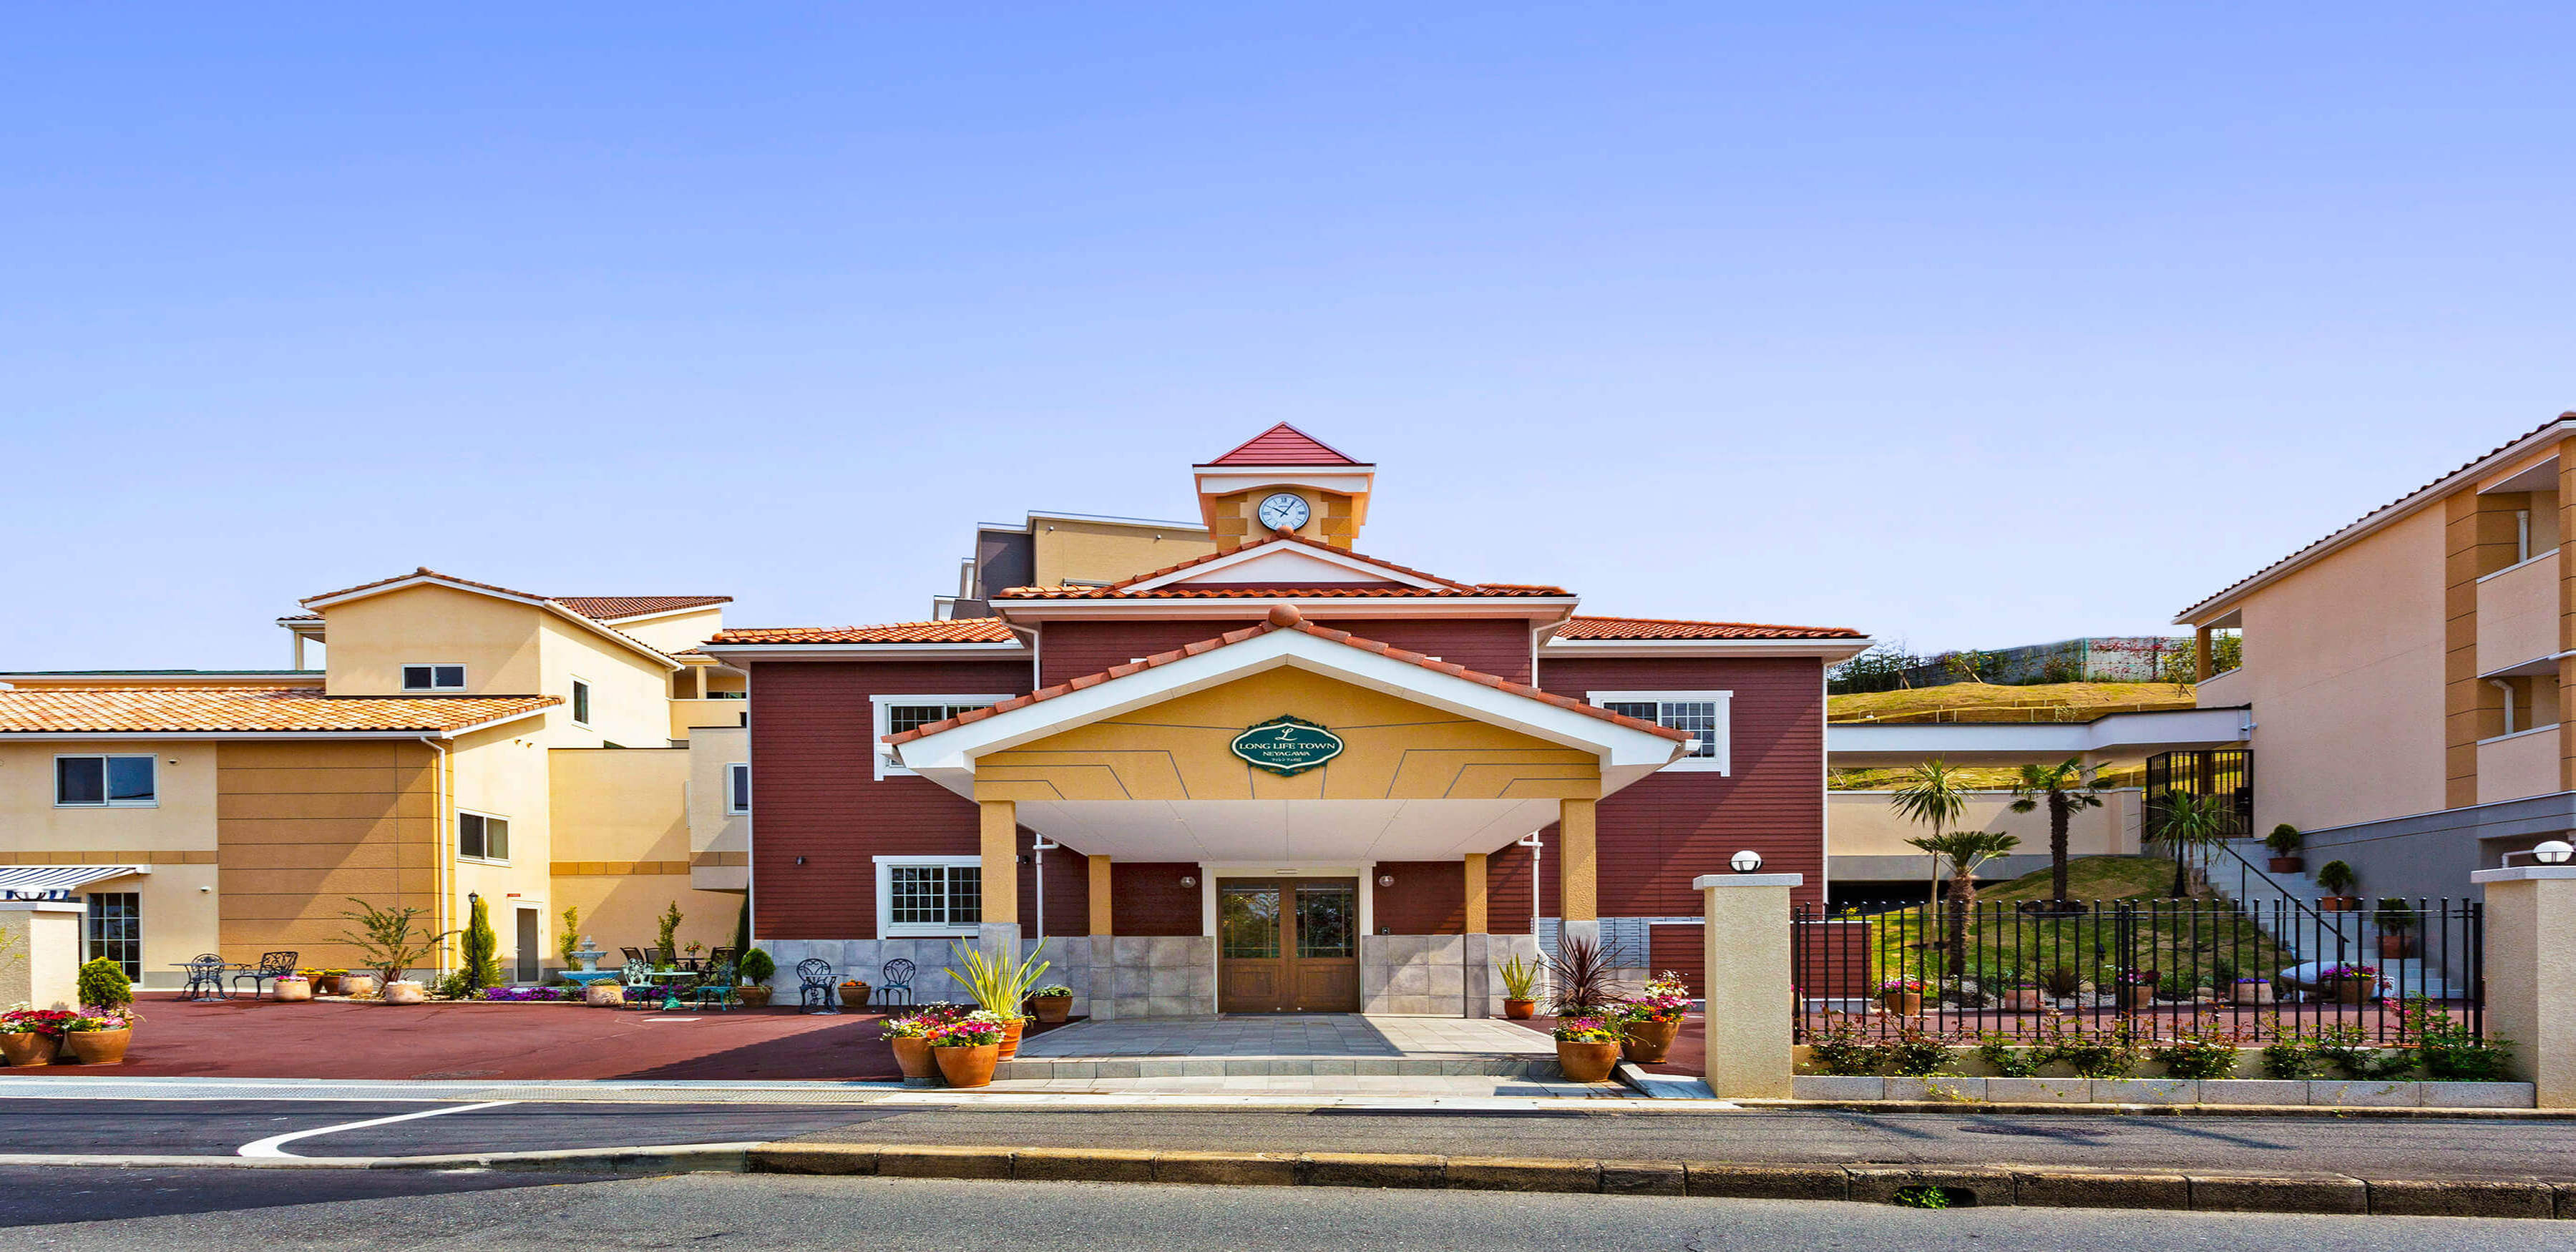
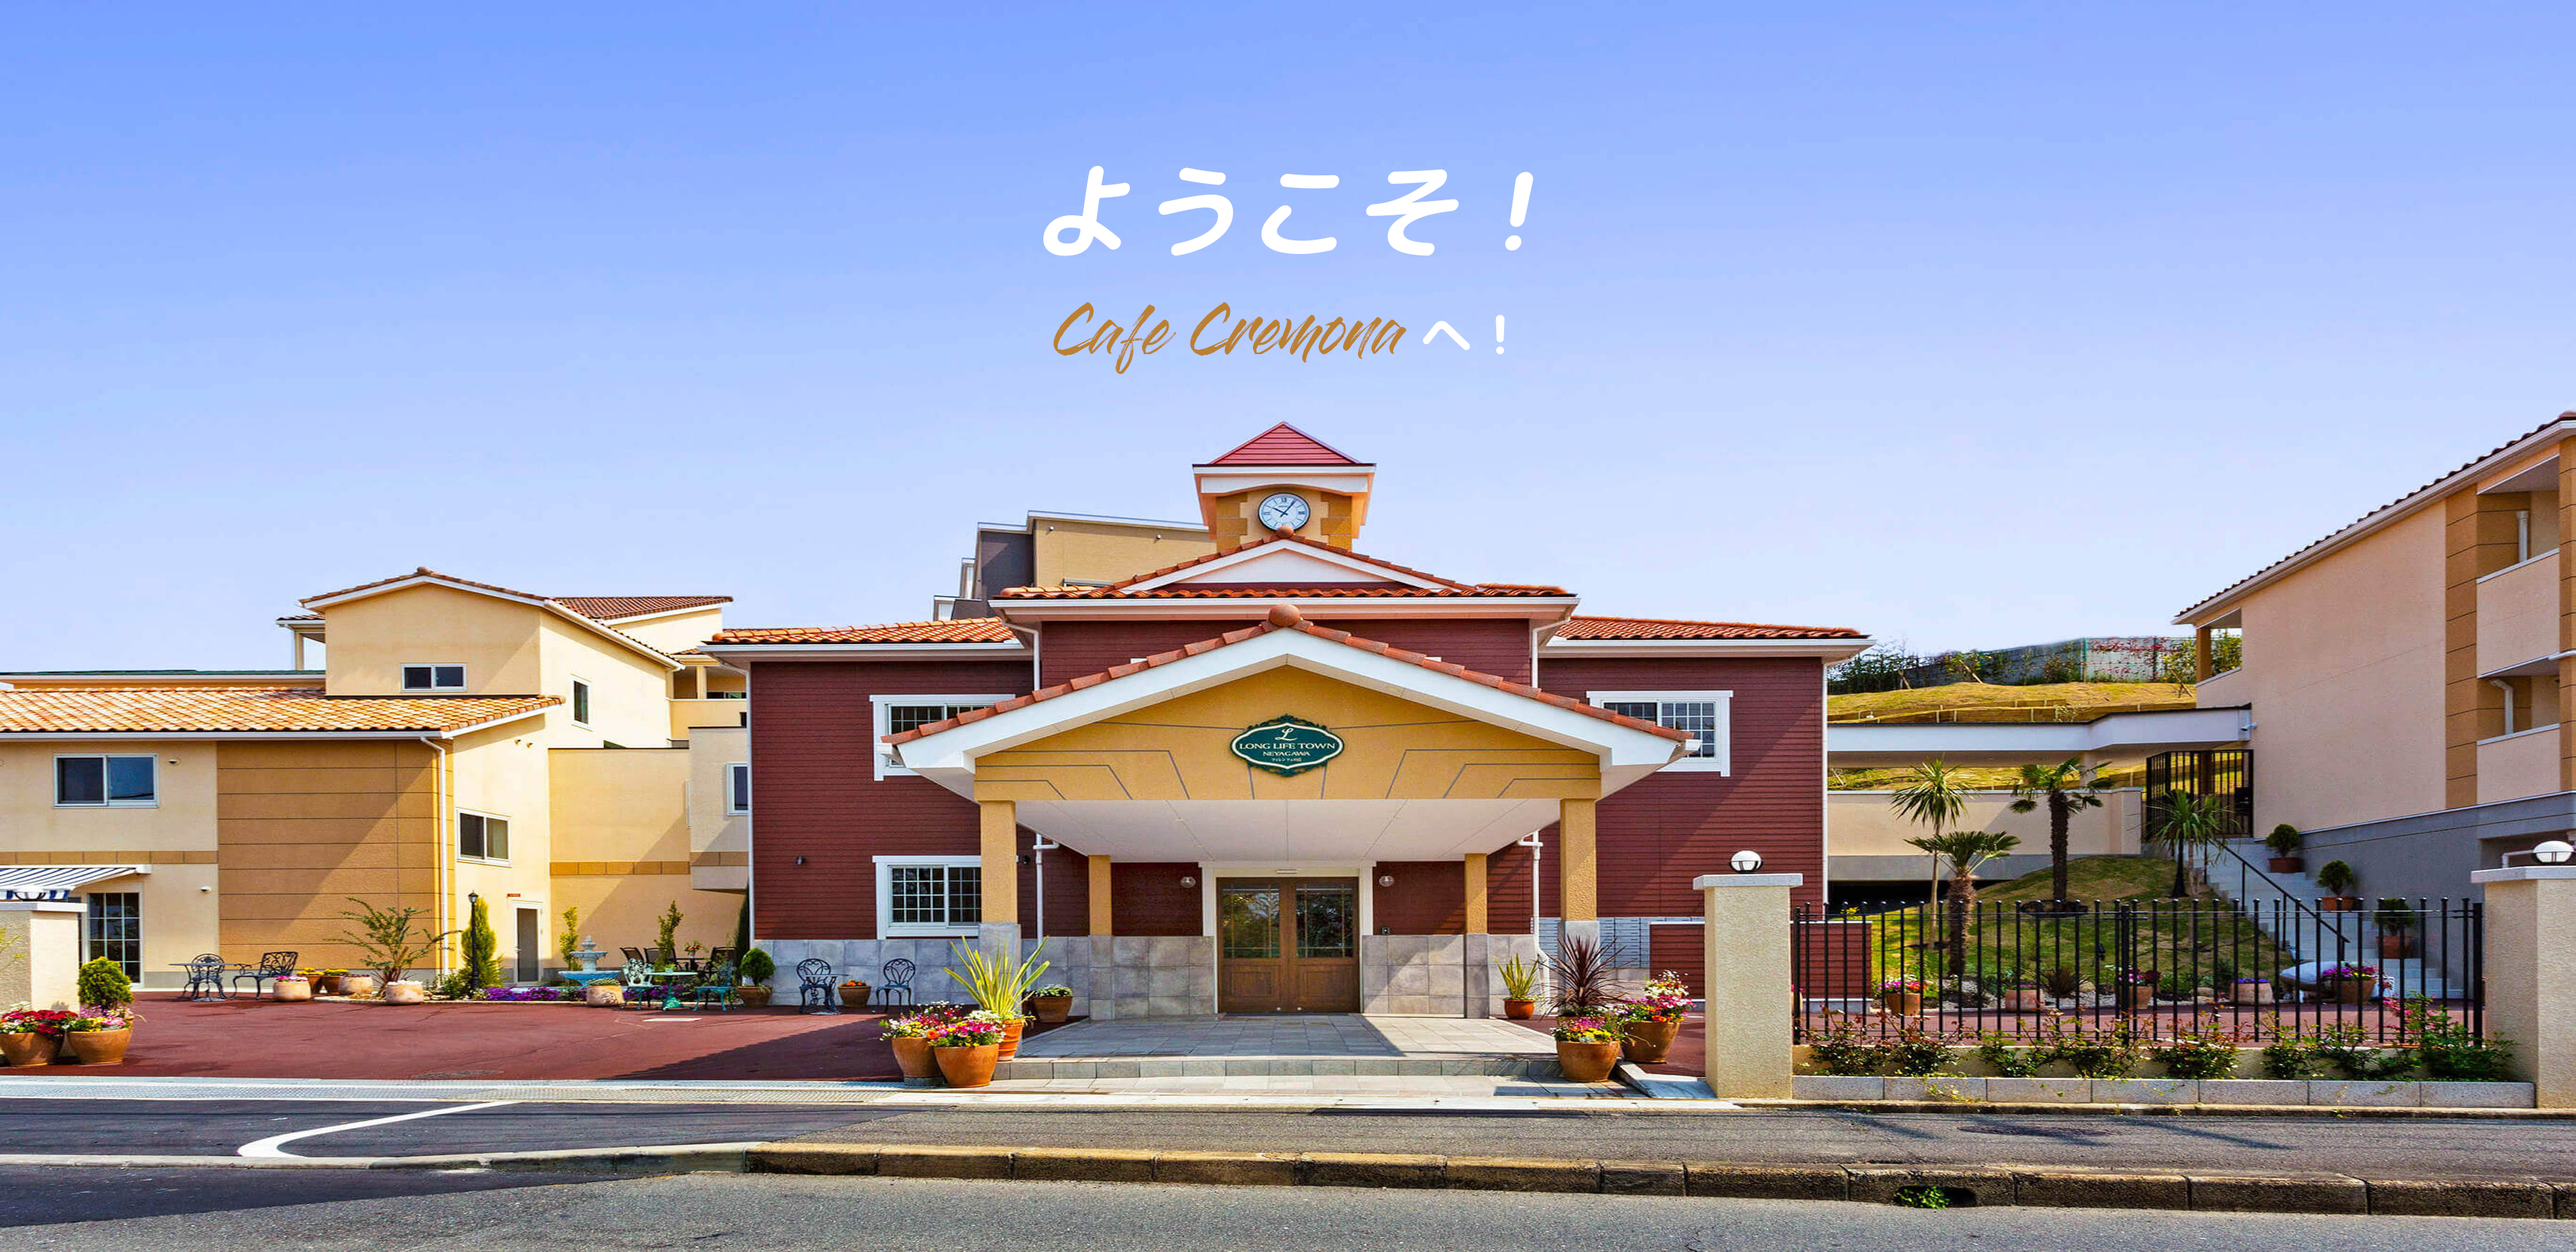
background img

Changed region(s): [[0.4044, 0.1234, 0.5911, 0.216], [0.4044, 0.2469, 0.5911, 0.2777]]

diff --git a/css/style.css b/css/style.css
@@ -186,77 +186,6 @@ p {
   border-color: #fb6e14;
 }
 
-/*
- * Flexslider
- */
-
-.flexslider {
-  top : 10%;
-  border: none;
-  position: relative;
-  z-index: 1;
-  margin-bottom: 0;
-}
-.flexslider .fh5co-text {
-  position: absolute;
-  z-index: 3;
-  width: 100%;
-  text-align: center;
-}
-.flexslider .fh5co-text h1 {
-  margin: 0;
-  padding: 0;
-  font-family: "Playfair Display", serif;
-  font-size: 10vmax;
-  font-weight: 700;
-  font-style: italic;
-  color: #fff;
-  -webkit-transition: 0.3s;
-  -o-transition: 0.3s;
-  transition: 0.3s;
-}
-
-.flexslider .fh5co-text h2 {
-  margin: 0;
-  padding: 0;
-  font-family: "Merriweather", serif;
-  font-weight: 200;
-  font-size: 6.5vmax;
-  letter-spacing: 2px;
-  color: #fff;
-  -webkit-transition: 0.3s;
-  -o-transition: 0.3s;
-  transition: 0.3s;
-}
-
-.flexslider .fh5co-text h2 span {
-  font-family: "Playfair Display", serif;
-  font-style: italic;
-  text-transform: none;
-  color: #fb6e14;
-}
- .flexslider .fh5co-text h2 a {
-  color: #fb6e14;
-  
-}
-.flexslider .slides li {
-  background-repeat: no-repeat;
-  background-size: cover;
-}
- .flexslider .fh5co-overlay {
-  position: absolute;
-  z-index: 3;
-  top: 0;
-  bottom: 0;
-  left: 0;
-  right: 0;
-  opacity: .5;
-  background: #000;
-}
-.flexslider .flex-control-nav,
-.flexslider .flex-direction-nav {
-  display: none;
-}
 
 .fh5co-main-nav {
   position: relative;

diff --git a/index.html b/index.html
@@ -90,12 +90,7 @@
 						<div class="left_mask"></div>
 						<div class="right_mask"></div>
 						<figure class="bg_img">	
-							<div class = "flexslider">		
-									<div class="fh5co-text">
-										<h1 >ようこそ！</h1>
-										<h2><span>Cremona</span> <a href="http://freehtml5.co/" target="_blank"></a>へ！</h2>
-									</div>
-							</div>	
+						
 						</figure>
 					</div>
 				</article>
